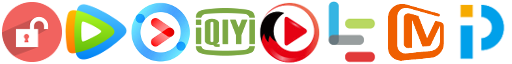
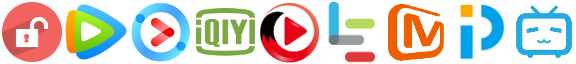
增加 bilibili 源

diff --git a/public/css/index.css b/public/css/index.css
@@ -96,6 +96,7 @@ h2 {
 .icon6 { background-position: calc(var(--icon-size) * -0.5 * 5); }
 .icon7 { background-position: calc(var(--icon-size) * -0.5 * 6); }
 .icon8 { background-position: calc(var(--icon-size) * -0.5 * 7); }
+.icon9 { background-position: calc(var(--icon-size) * -0.5 * 8); }
 
 .count {
   color: var(--primary-color);

diff --git a/public/css/list.css b/public/css/list.css
@@ -168,6 +168,7 @@ body {
 .icon6 { background-position: calc(var(--icon-size) * -0.4 * 5); }
 .icon7 { background-position: calc(var(--icon-size) * -0.4 * 6); }
 .icon8 { background-position: calc(var(--icon-size) * -0.4 * 7); }
+.icon9 { background-position: calc(var(--icon-size) * -0.4 * 8); }
 
 .footer {
   position: fixed;

diff --git a/routes/data.js b/routes/data.js
@@ -398,7 +398,12 @@ function cleanPrice(price) {
 }
 
 function getSourceId(name, sources) {
-  return sources.indexOf(name);
+  const index = sources.indexOf(name);
+  if(index == -1) {
+    return 0;
+  } else {
+    return index;
+  }
 }
 
 module.exports = data;
